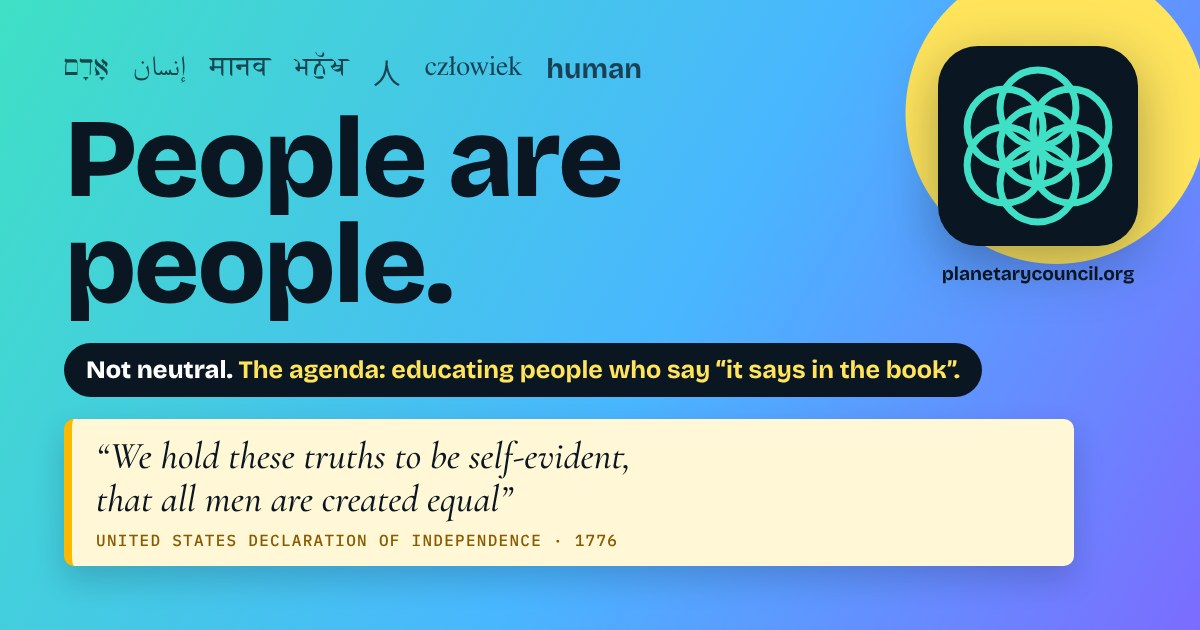
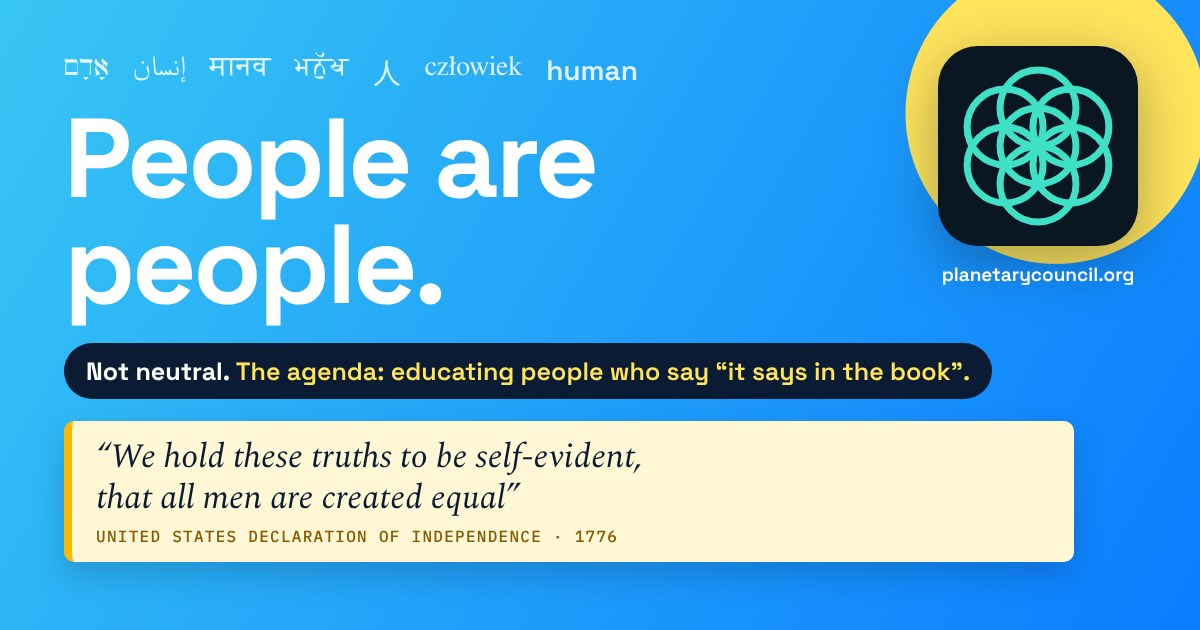
People Are People: align colours and fonts with the main site
Claude-Session: https://claude.ai/code/session_016bUXicNj67Z3kBVtNdhwqY

diff --git a/publications/people-are-people.html b/publications/people-are-people.html
@@ -29,31 +29,31 @@
 <meta name="twitter:image:alt" content="People are people. Not neutral: the agenda is educating people who say it says in the book. The word human in seven languages, the Planetary Council logo, and the line from the United States Declaration of Independence: We hold these truths to be self-evident, that all men are created equal.">
 
 <link rel="preconnect" href="https://fonts.googleapis.com">
-<link rel="stylesheet" href="https://fonts.googleapis.com/css2?family=Bricolage+Grotesque:opsz,wght@12..96,400;12..96,700;12..96,800&family=Source+Serif+4:ital,opsz,wght@0,8..60,400;0,8..60,600;1,8..60,400&family=IBM+Plex+Mono:wght@400;500&family=Cormorant+Garamond:ital,wght@1,500;1,600&display=swap">
+<link rel="stylesheet" href="https://fonts.googleapis.com/css2?family=Space+Grotesk:wght@400;500;600;700&family=Spectral:ital,wght@0,400;0,500;0,600;1,400;1,500&family=IBM+Plex+Sans:wght@300;400;500;600&family=IBM+Plex+Mono:wght@400;500&display=swap">
 <style>
 /* Layout: one easy reading column on white and sky blue. Each voice: who said it on the left, the words and a link on the right. Gold marks the exceptions. Single bright theme by choice. */
 :root{
   color-scheme:light;
-  --bg:#FFFFFF; --sky:#E6F2FF; --surface:#FFFFFF; --fg:#0B2545; --muted:#46607E; --rule:#CFE1F5;
-  --blue:#0B5CC4; --green:#946600; --green-soft:#FFF4D1; --gold:#946600; --gold-line:#F2B705; --gold-soft:#FFF4D1;
-  --display:"Bricolage Grotesque", "Segoe UI", system-ui, sans-serif;
-  --body:"Source Serif 4", Georgia, "Times New Roman", serif;
+  --bg:#eef6ff; --sky:#f7fbff; --surface:#FFFFFF; --fg:#0a1b33; --muted:#45607e; --rule:#cfe2fa;
+  --blue:#0a7cff; --cyan:#38c6f4; --green:#0a7cff; --green-soft:#e3f0ff; --gold:#0a7cff; --gold-line:#38c6f4; --gold-soft:#e8f3ff; --scripture:#FFF6DA; --scripture-line:#F2C230;
+  --display:"Space Grotesk", system-ui, sans-serif;
+  --body:"IBM Plex Sans", system-ui, sans-serif;
   --mono:"IBM Plex Mono", ui-monospace, Menlo, Consolas, monospace;
 }
 *{box-sizing:border-box}
-body{background:var(--bg); color:var(--fg); font-family:var(--body); font-size:19px; line-height:1.6; margin:0}
+body{background-color:var(--bg); background-image:linear-gradient(rgba(10,124,255,.06) 1px, transparent 1px),linear-gradient(90deg, rgba(10,124,255,.06) 1px, transparent 1px); background-size:64px 64px; color:var(--fg); font-family:var(--body); font-size:19px; line-height:1.6; margin:0}
 .band{padding-left:max(16px, env(safe-area-inset-left, 0px)); padding-right:max(16px, env(safe-area-inset-right, 0px))}
-.sky{background:var(--sky)}
+.sky{background:rgba(255,255,255,.55)}
 .wrap{max-width:820px; margin:0 auto}
 a{color:var(--blue); text-underline-offset:3px}
 a:focus-visible{outline:2px solid var(--gold-line); outline-offset:2px; border-radius:2px}
-h1,h2,h3{font-family:var(--display); text-wrap:balance; line-height:1.05; margin:0; color:var(--blue)}
+h1,h2,h3{font-family:var(--display); text-wrap:balance; line-height:1.05; margin:0; color:var(--fg)}
 
 header{padding-block:56px 44px}
 .words{color:var(--muted); font-size:1.05rem; display:flex; flex-wrap:wrap; gap:6px 16px; margin-bottom:24px}
 .words span{white-space:nowrap}
 .words span:last-child{color:var(--blue); font-weight:600}
-h1{font-size:clamp(3rem, 11vw, 6.2rem); font-weight:800; letter-spacing:-0.02em}
+h1{font-size:clamp(3rem, 11vw, 6.2rem); font-weight:700; letter-spacing:-0.02em}
 h1 em{font-style:normal; color:var(--blue)}
 .goldline{height:3px; width:120px; background:var(--gold-line); border-radius:2px; margin:22px 0}
 .lede{font-size:1.25rem; max-width:60ch; margin:0}
@@ -77,7 +77,7 @@ h2{font-size:clamp(1.9rem, 5vw, 2.7rem); font-weight:700; margin-bottom:14px}
 .rail,.body{min-width:0}
 .trad{font-family:var(--display); font-weight:700; font-size:1.1rem; color:var(--blue)}
 .who{font-size:.9rem; color:var(--muted); line-height:1.45; margin-top:4px}
-blockquote{margin:0 0 6px; font-family:"Cormorant Garamond", Georgia, serif; font-style:italic; font-weight:500; font-size:1.5rem; line-height:1.4; background:var(--gold-soft); border-left:3px solid var(--gold-line); border-radius:4px; padding:14px 18px}
+blockquote{margin:0 0 6px; font-family:"Spectral", Georgia, serif; font-style:italic; font-weight:400; font-size:1.3rem; line-height:1.45; background:var(--scripture); border-left:3px solid var(--scripture-line); border-radius:4px; padding:14px 18px}
 .note{margin:10px 0 0}
 .src{font-size:.88rem; color:var(--muted); margin:10px 0 0; overflow-wrap:anywhere}
 .asterisk .trad{color:var(--gold)}
@@ -100,7 +100,7 @@ blockquote{margin:0 0 6px; font-family:"Cormorant Garamond", Georgia, serif; fon
 
 .principles{counter-reset:p; list-style:none; padding:0; margin:0; display:grid; gap:18px; max-width:62ch}
 .principles li{counter-increment:p; display:grid; grid-template-columns:2.2rem 1fr; gap:12px}
-.principles li::before{content:counter(p); font-family:var(--display); font-weight:800; font-size:1.6rem; color:var(--gold-line); line-height:1.1}
+.principles li::before{content:counter(p); font-family:var(--display); font-weight:700; font-size:1.6rem; color:var(--gold-line); line-height:1.1}
 
 .closing{font-family:var(--display); font-weight:700; font-size:clamp(1.6rem, 4.5vw, 2.3rem); line-height:1.2; max-width:24ch; margin:0; color:var(--blue)}
 .closing em{font-style:normal; color:var(--blue)}
@@ -154,7 +154,7 @@ footer p{margin:0 0 8px}
 .row summary{list-style:none; cursor:pointer; padding:14px 18px; display:block}
 .row summary::-webkit-details-marker{display:none}
 .row .tag{display:block; font-family:var(--display); font-weight:700; font-size:.82rem; color:var(--blue); margin-bottom:4px}
-.row .q{display:block; font-family:"Cormorant Garamond", Georgia, serif; font-style:italic; font-weight:500; font-size:1.3rem; line-height:1.35; color:var(--fg)}
+.row .q{display:block; font-family:"Spectral", Georgia, serif; font-style:italic; font-weight:400; font-size:1.15rem; line-height:1.35; color:var(--fg)}
 .row .q.plain{font-family:var(--body); font-style:normal; font-size:1.05rem}
 .row[open] > summary, .row.active > summary{background:var(--gold-soft); box-shadow:inset 3px 0 0 var(--gold-line)}
 .exp{padding:4px 18px 16px; background:var(--gold-soft)}
@@ -172,7 +172,7 @@ blockquote.opening{font-size:clamp(1.6rem, 5vw, 2.2rem); margin:0 0 18px}
 .pcount{white-space:nowrap}
 .ask{font-style:italic; color:var(--blue); border-left:3px solid var(--gold-line); padding-left:10px}
 .ask::before{content:"Food for thought: "; font-style:normal; font-family:var(--display); font-weight:700}
-.voicebox{background:var(--gold-soft); border-left:4px solid var(--gold-line); border-radius:6px; padding:18px 20px; margin:0 0 12px; max-width:62ch}
+.voicebox{background:var(--scripture); border-left:4px solid var(--scripture-line); border-radius:6px; padding:18px 20px; margin:0 0 12px; max-width:62ch}
 .voicebox blockquote{background:none; border:0; padding:0; margin:0 0 8px; font-size:1.45rem}
 .voicebox p{margin:0}
 .ptrack{flex:1; height:4px; background:var(--rule); border-radius:2px; overflow:hidden}
@@ -192,6 +192,7 @@ blockquote.opening{font-size:clamp(1.6rem, 5vw, 2.2rem); margin:0 0 18px}
   .pdetail .fn{margin:12px 0 0}
 }
 </style>
+<style>.panel{border-color:var(--rule)} .row[open] > summary, .row.active > summary{background:var(--gold-soft); box-shadow:inset 3px 0 0 var(--blue)} .exp,.pdetail{background:var(--gold-soft)} .track{border-radius:999px} .pbar{background:#f2f8ff}</style>
 </head>
 <body>
 
